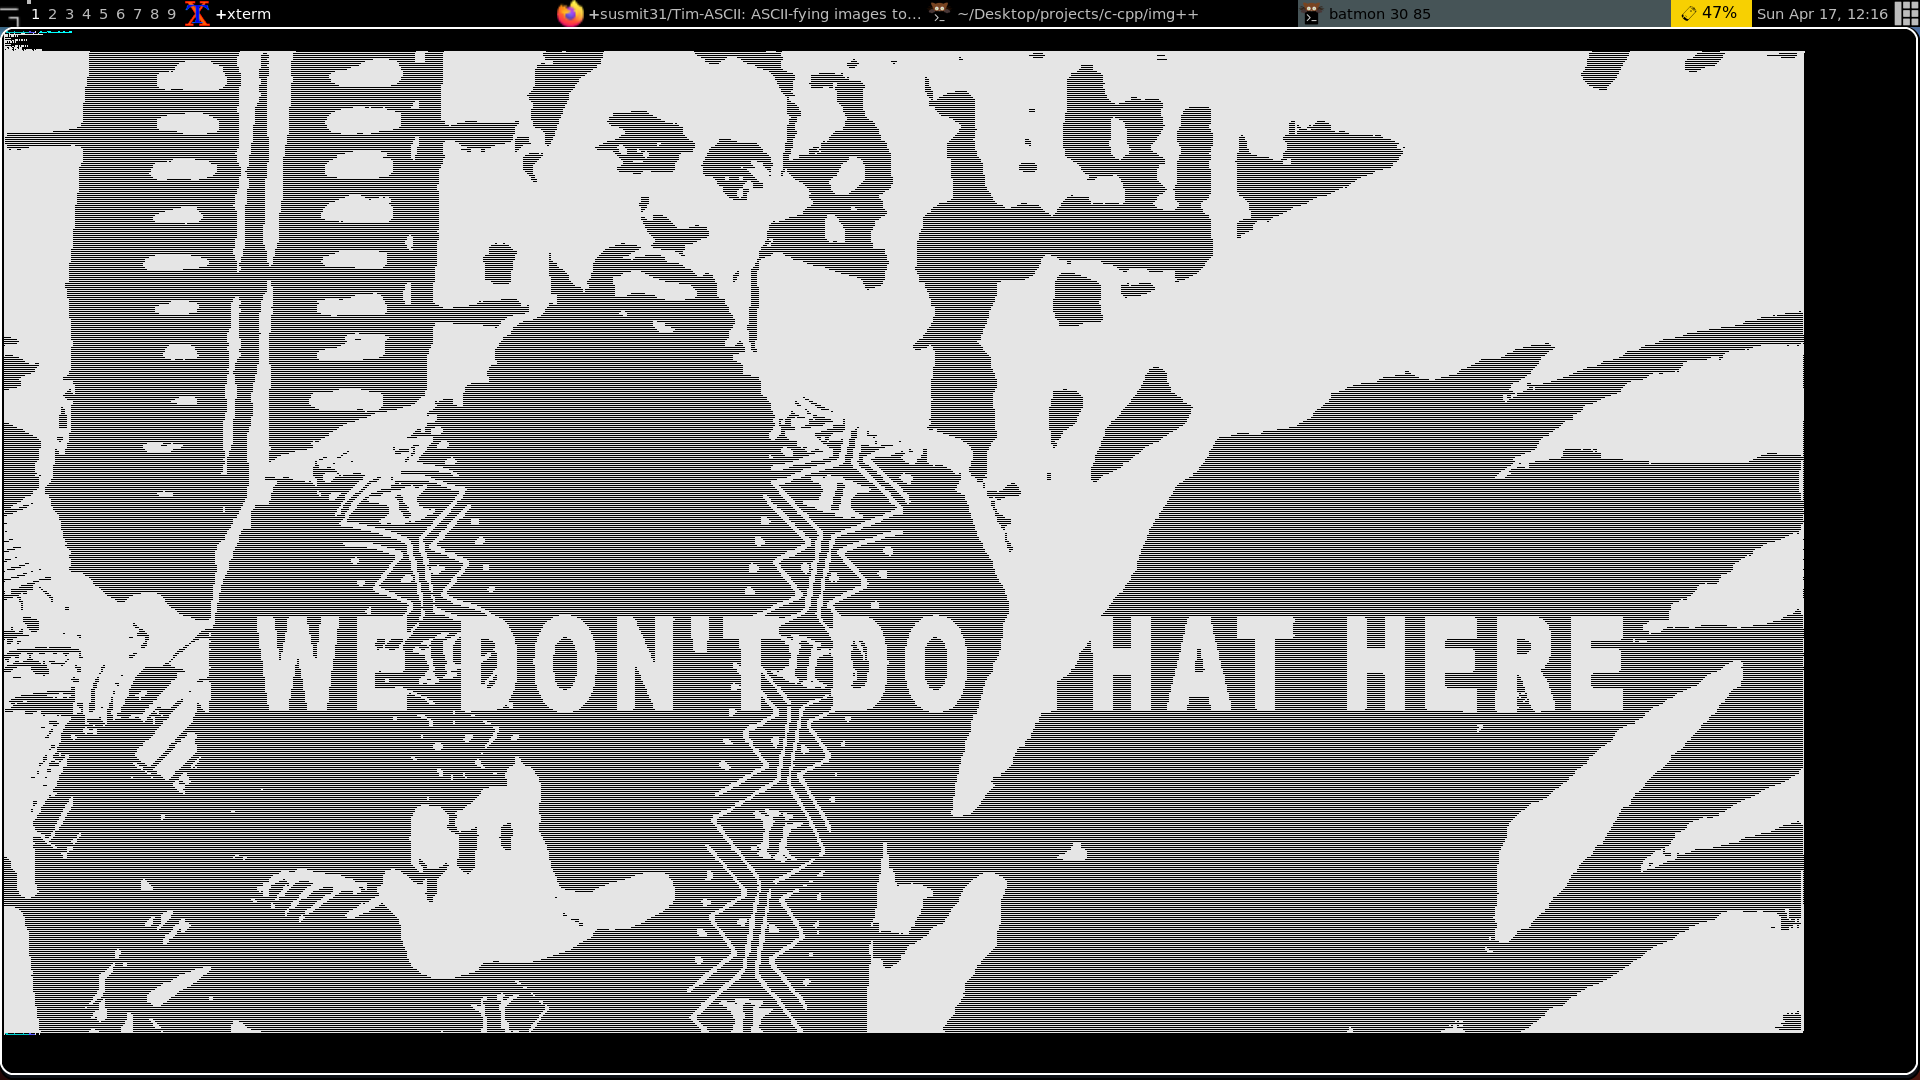
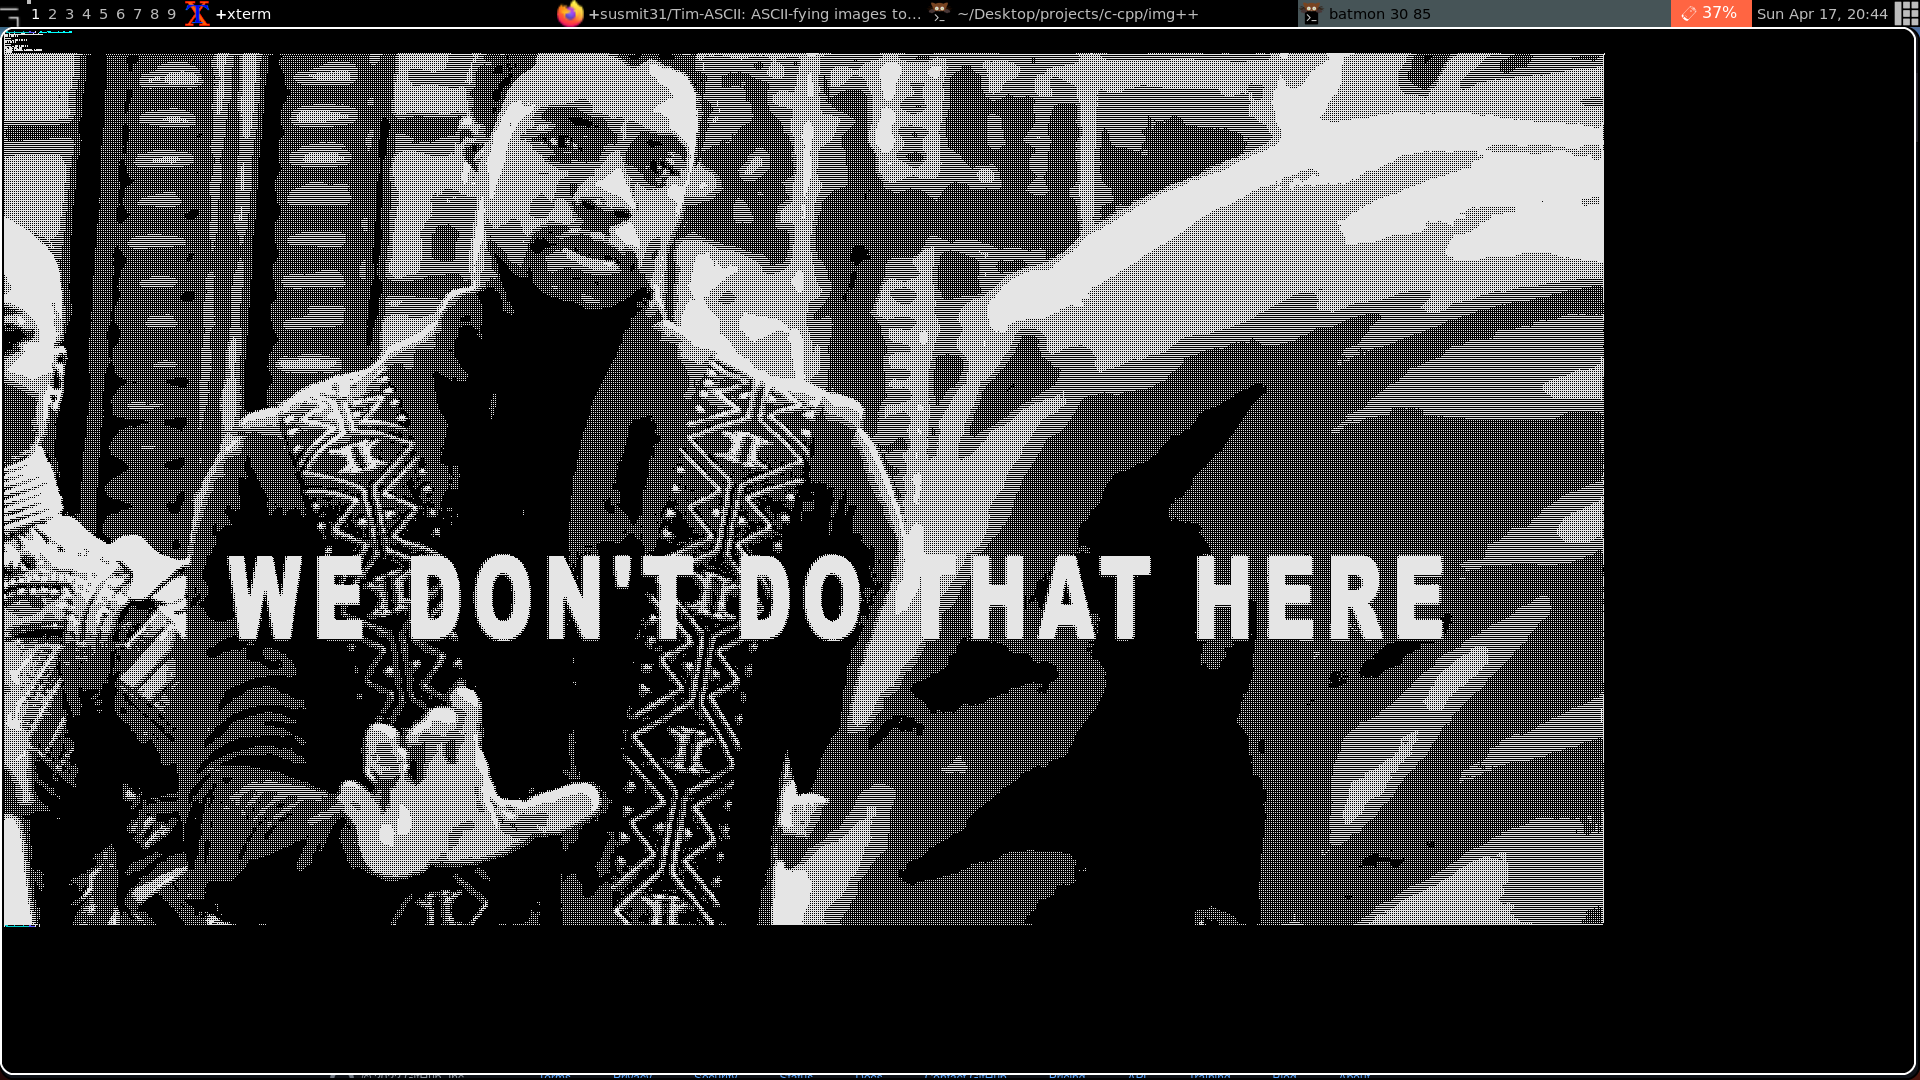
finer quantization

diff --git a/src/Img.cpp b/src/Img.cpp
@@ -132,30 +132,64 @@ void Image::to_array_gray(float* gray){
 	}
 }
 
+void Image::normalize_gray(float* gray){
+	float maxpixel = arrmax(gray, width*height);
+	printf("%f\n", maxpixel);
+	for (int i = 0; i < width*height; i++){
+		gray[i] /= maxpixel;
+	}
+}
+
 void Image::to_array_ascii(char* ascii){
 	float* gray = (float*) malloc(width*height*sizeof(float));
 	to_array_gray(gray);
+	normalize_gray(gray);
 
 	for (int i=0; i < width*height; i++){
-		if (gray[i] > .8){
+		if (gray[i] > .9){
 			ascii[2*i] = '#';
 			ascii[2*i+1] = '#';
-		} 
-		else if (gray[i] > .6){
+		}
+		else if (gray[i] > .8){
+			ascii[2*i] = '&';
+			ascii[2*i+1] = '#';
+		}
+		else if (gray[i] > .7){
 			ascii[2*i] = '&';
 			ascii[2*i+1] = '&';
 		}
-		else if (gray[i] > .4){
-			ascii[2*i] = '%';
-			ascii[2*i+1] = '%';
+		else if (gray[i] > .6){
+			ascii[2*i] = '$';
+			ascii[2*i+1] = '-';
 		}
-		else if (gray[i] > .2){
+		else if (gray[i] > .5){
+			ascii[2*i] = '%';
+			ascii[2*i+1] = '-';
+		}
+		else if (gray[i] > .4){
 			ascii[2*i] = '*';
 			ascii[2*i+1] = '*';
 		}
-		else{
+		else if (gray[i] > .3){
+			ascii[2*i] = '*';
+			ascii[2*i+1] = ' ';
+		}
+		else if (gray[i] > .2){
 			ascii[2*i] = '-';
-			ascii[2*i+1] = '-';
+			ascii[2*i+1] = ' ';
+		}
+		else{
+			ascii[2*i] = ' ';
+			ascii[2*i+1] = ' ';
 		}
 	}
+}
+
+float arrmax(float* arr, int len_arr){
+	float maxel = arr[0];
+	for (int i = 0;  i< len_arr; i++){
+		if (arr[i] > maxel)
+			maxel = arr[i];
+	}
+	return maxel;
 }

diff --git a/src/Img.h b/src/Img.h
@@ -15,6 +15,7 @@ class Image {
 		int get_channels();
 		void to_array_rgba(int* rgba_arr[]);
 		void to_array_gray(float* gray);
+		void normalize_gray(float* gray);
 		void to_array_ascii(char* ascii);
 		bool resize(float scale, Image& output);
 		uint8_t* get_data();
@@ -22,3 +23,4 @@ class Image {
 		~Image();
 };
 
+float arrmax(float* arr, int size);
